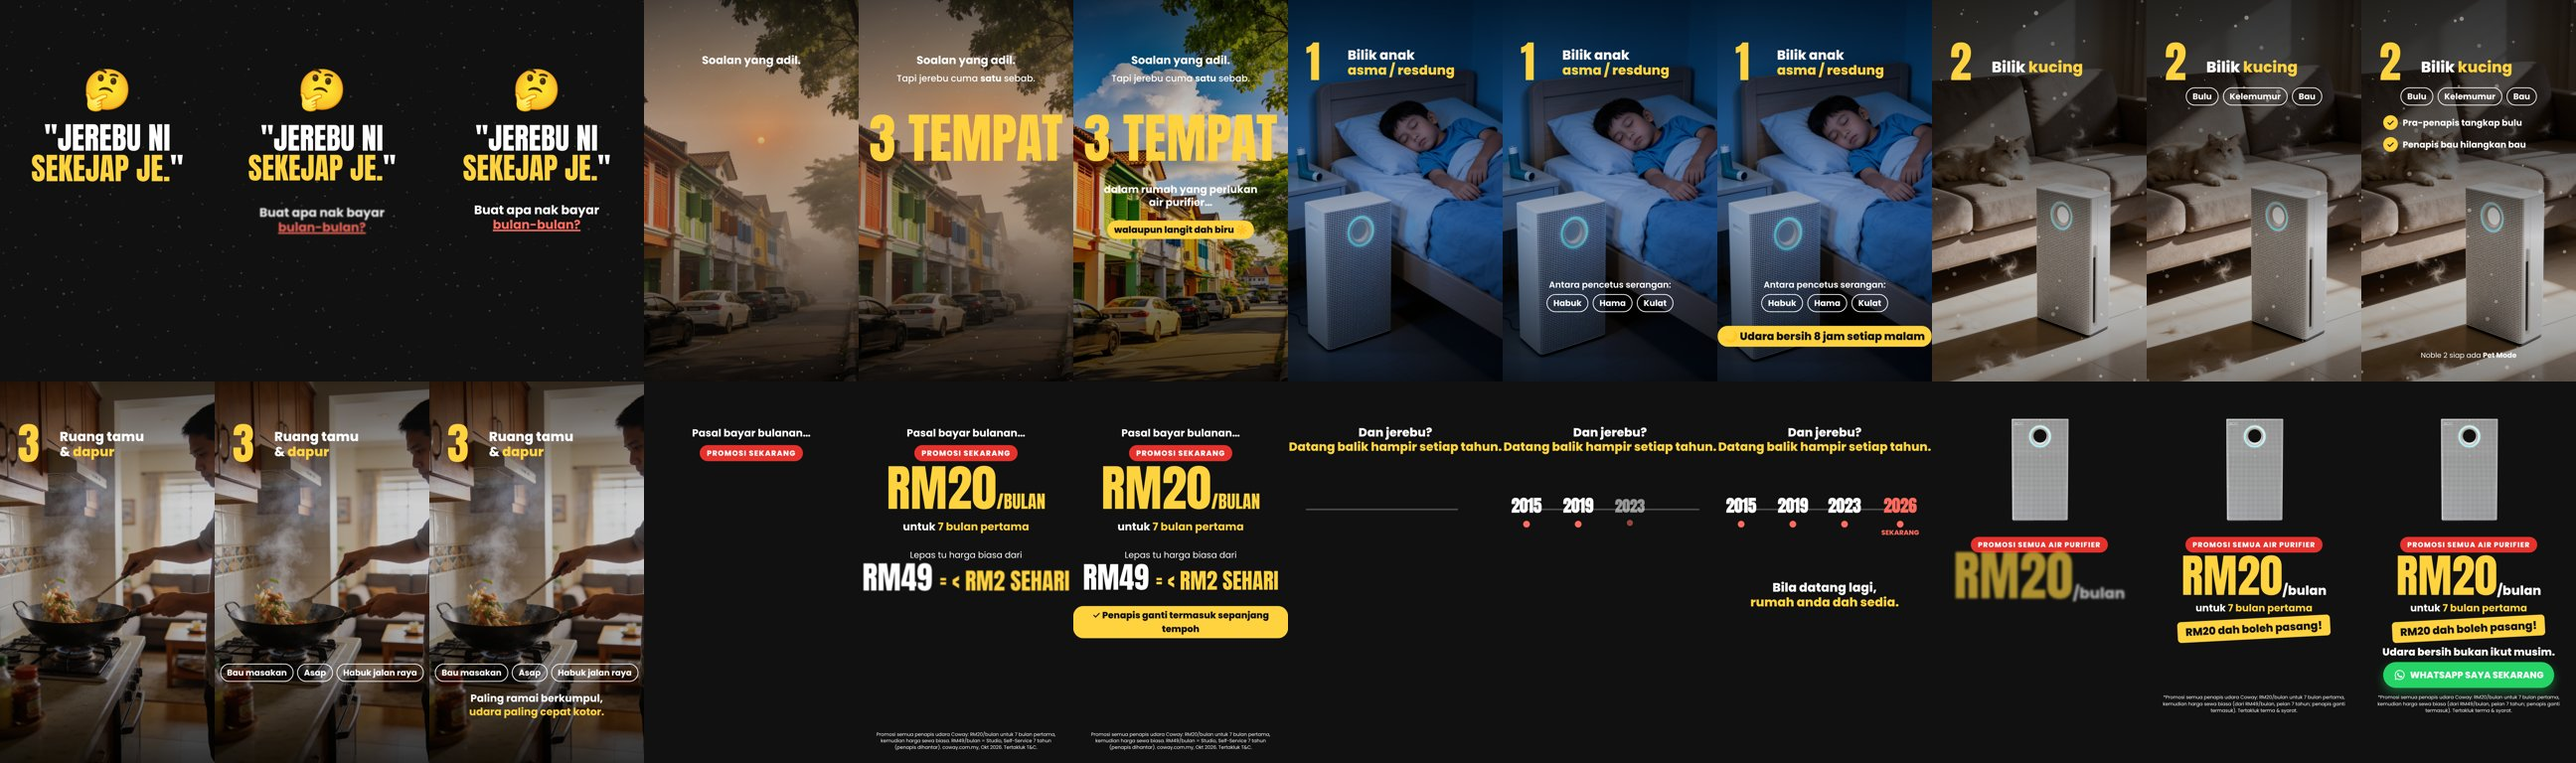
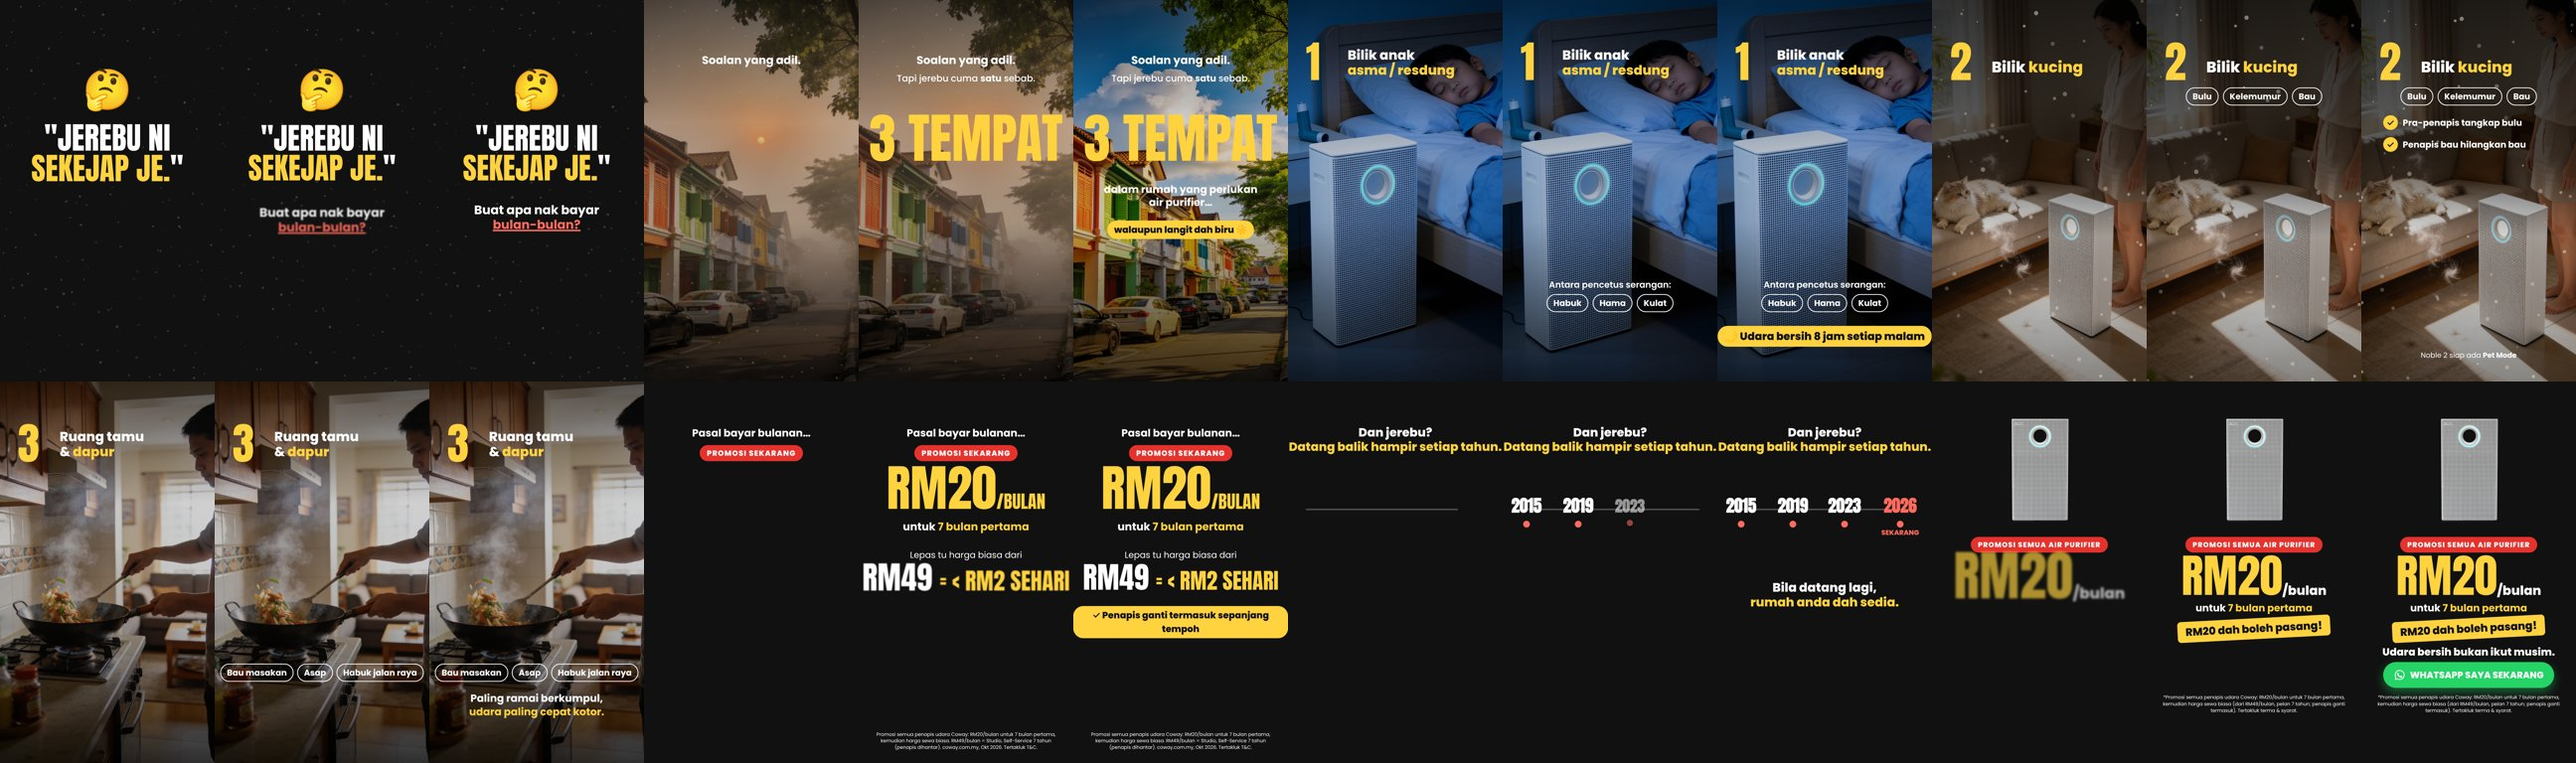
J4/J6 photos: regenerate Storm II at true scale (slim 75 cm tower vs people/furniture)
Claude-Session: https://claude.ai/code/session_01CXwDjubsrfrRtpTArAnt2J

Changed region(s): [[0.5, 0.0, 1.0, 0.5]]

diff --git a/src/jerebu/j4_tips.html b/src/jerebu/j4_tips.html
@@ -25,7 +25,7 @@
 
   <!-- 0: intro -->
   <div class="scene">
-    <script>document.write(K.card('R18.jpg', 150, 140, 780, 800, { pos: '60% 60%' }))</script>
+    <script>document.write(K.card('R18.jpg', 150, 140, 780, 800, { pos: '30% 55%' }))</script>
     <div class="el c" style="top:980px; font-size:58px; font-weight:700; line-height:1.2" data-in="10%" data-a="up">Dah ada air purifier,<br>tapi lampu masih <span class="no">merah?</span></div>
     <div class="el c" style="top:1200px; font-size:46px; font-weight:500; color:#2f5553" data-in="40%" data-a="up">Mungkin cara guna tak betul.</div>
     <div class="el c" style="top:1310px" data-in="62%" data-a="stamp"><span style="display:inline-block; background:#0E8C83; color:#fff; font-family:Anton; font-size:120px; padding:0 50px; border-radius:24px; transform:rotate(-3deg)">6 TIPS MASA JEREBU</span></div>
@@ -43,7 +43,7 @@
   <div class="scene">
     <div class="el c n" style="top:200px" data-in="0" data-a="slam">02</div>
     <div class="el c tip" style="top:540px" data-in="8%" data-a="up">Letak di bilik paling<br>lama anda duduk</div>
-    <script>document.write(K.card('R19.jpg', 90, 800, 430, 560, { pos: '60% 50%', in: '30%' }) + K.card('R12.jpg', 560, 800, 430, 560, { pos: '45% 55%', in: '45%' }))</script>
+    <script>document.write(K.card('R19.jpg', 90, 800, 430, 560, { pos: '55% 60%', in: '30%' }) + K.card('R12.jpg', 560, 800, 430, 560, { pos: '45% 55%', in: '45%' }))</script>
     <div class="el" style="top:1280px; left:110px" data-in="30%" data-a="up"><span class="chip">🛏 Bilik tidur</span></div>
     <div class="el" style="top:1280px; left:580px" data-in="45%" data-a="up"><span class="chip">🛋 Ruang tamu</span></div>
     <div class="el c" style="top:1420px" data-in="75%" data-a="stamp"><span class="chip" style="background:#0E8C83; color:#fff; font-size:56px">👶 Bilik anak, UTAMAKAN</span></div>
@@ -59,7 +59,7 @@
       <div style="position:absolute; left:170px; top:0; width:250px; height:600px; background:repeating-linear-gradient(90deg,#e7a8a0 0 30px,#d9928a 30px 60px); opacity:.95"></div>
       <div style="position:absolute; right:20px; top:16px; font-size:90px" class="no">✕</div></div>
     <div class="el card2" style="top:720px; left:570px; width:420px; height:600px; overflow:hidden" data-in="45%" data-a="right">
-      <img src="../../assets/generated/R12.jpg" style="position:absolute; inset:0; width:100%; height:100%; object-fit:cover; object-position:22% 70%">
+      <img src="../../assets/generated/R12.jpg" style="position:absolute; inset:0; width:100%; height:100%; object-fit:cover; object-position:45% 80%">
       <div style="position:absolute; right:20px; top:16px; font-size:90px; text-shadow:0 0 12px #fff" class="yes">✓</div></div>
     <div class="el c sub" style="top:1380px" data-in="60%" data-a="up">Jauh dari dinding &amp; langsir,<br>supaya udara <b>disedut lancar</b>.</div>
   </div>
